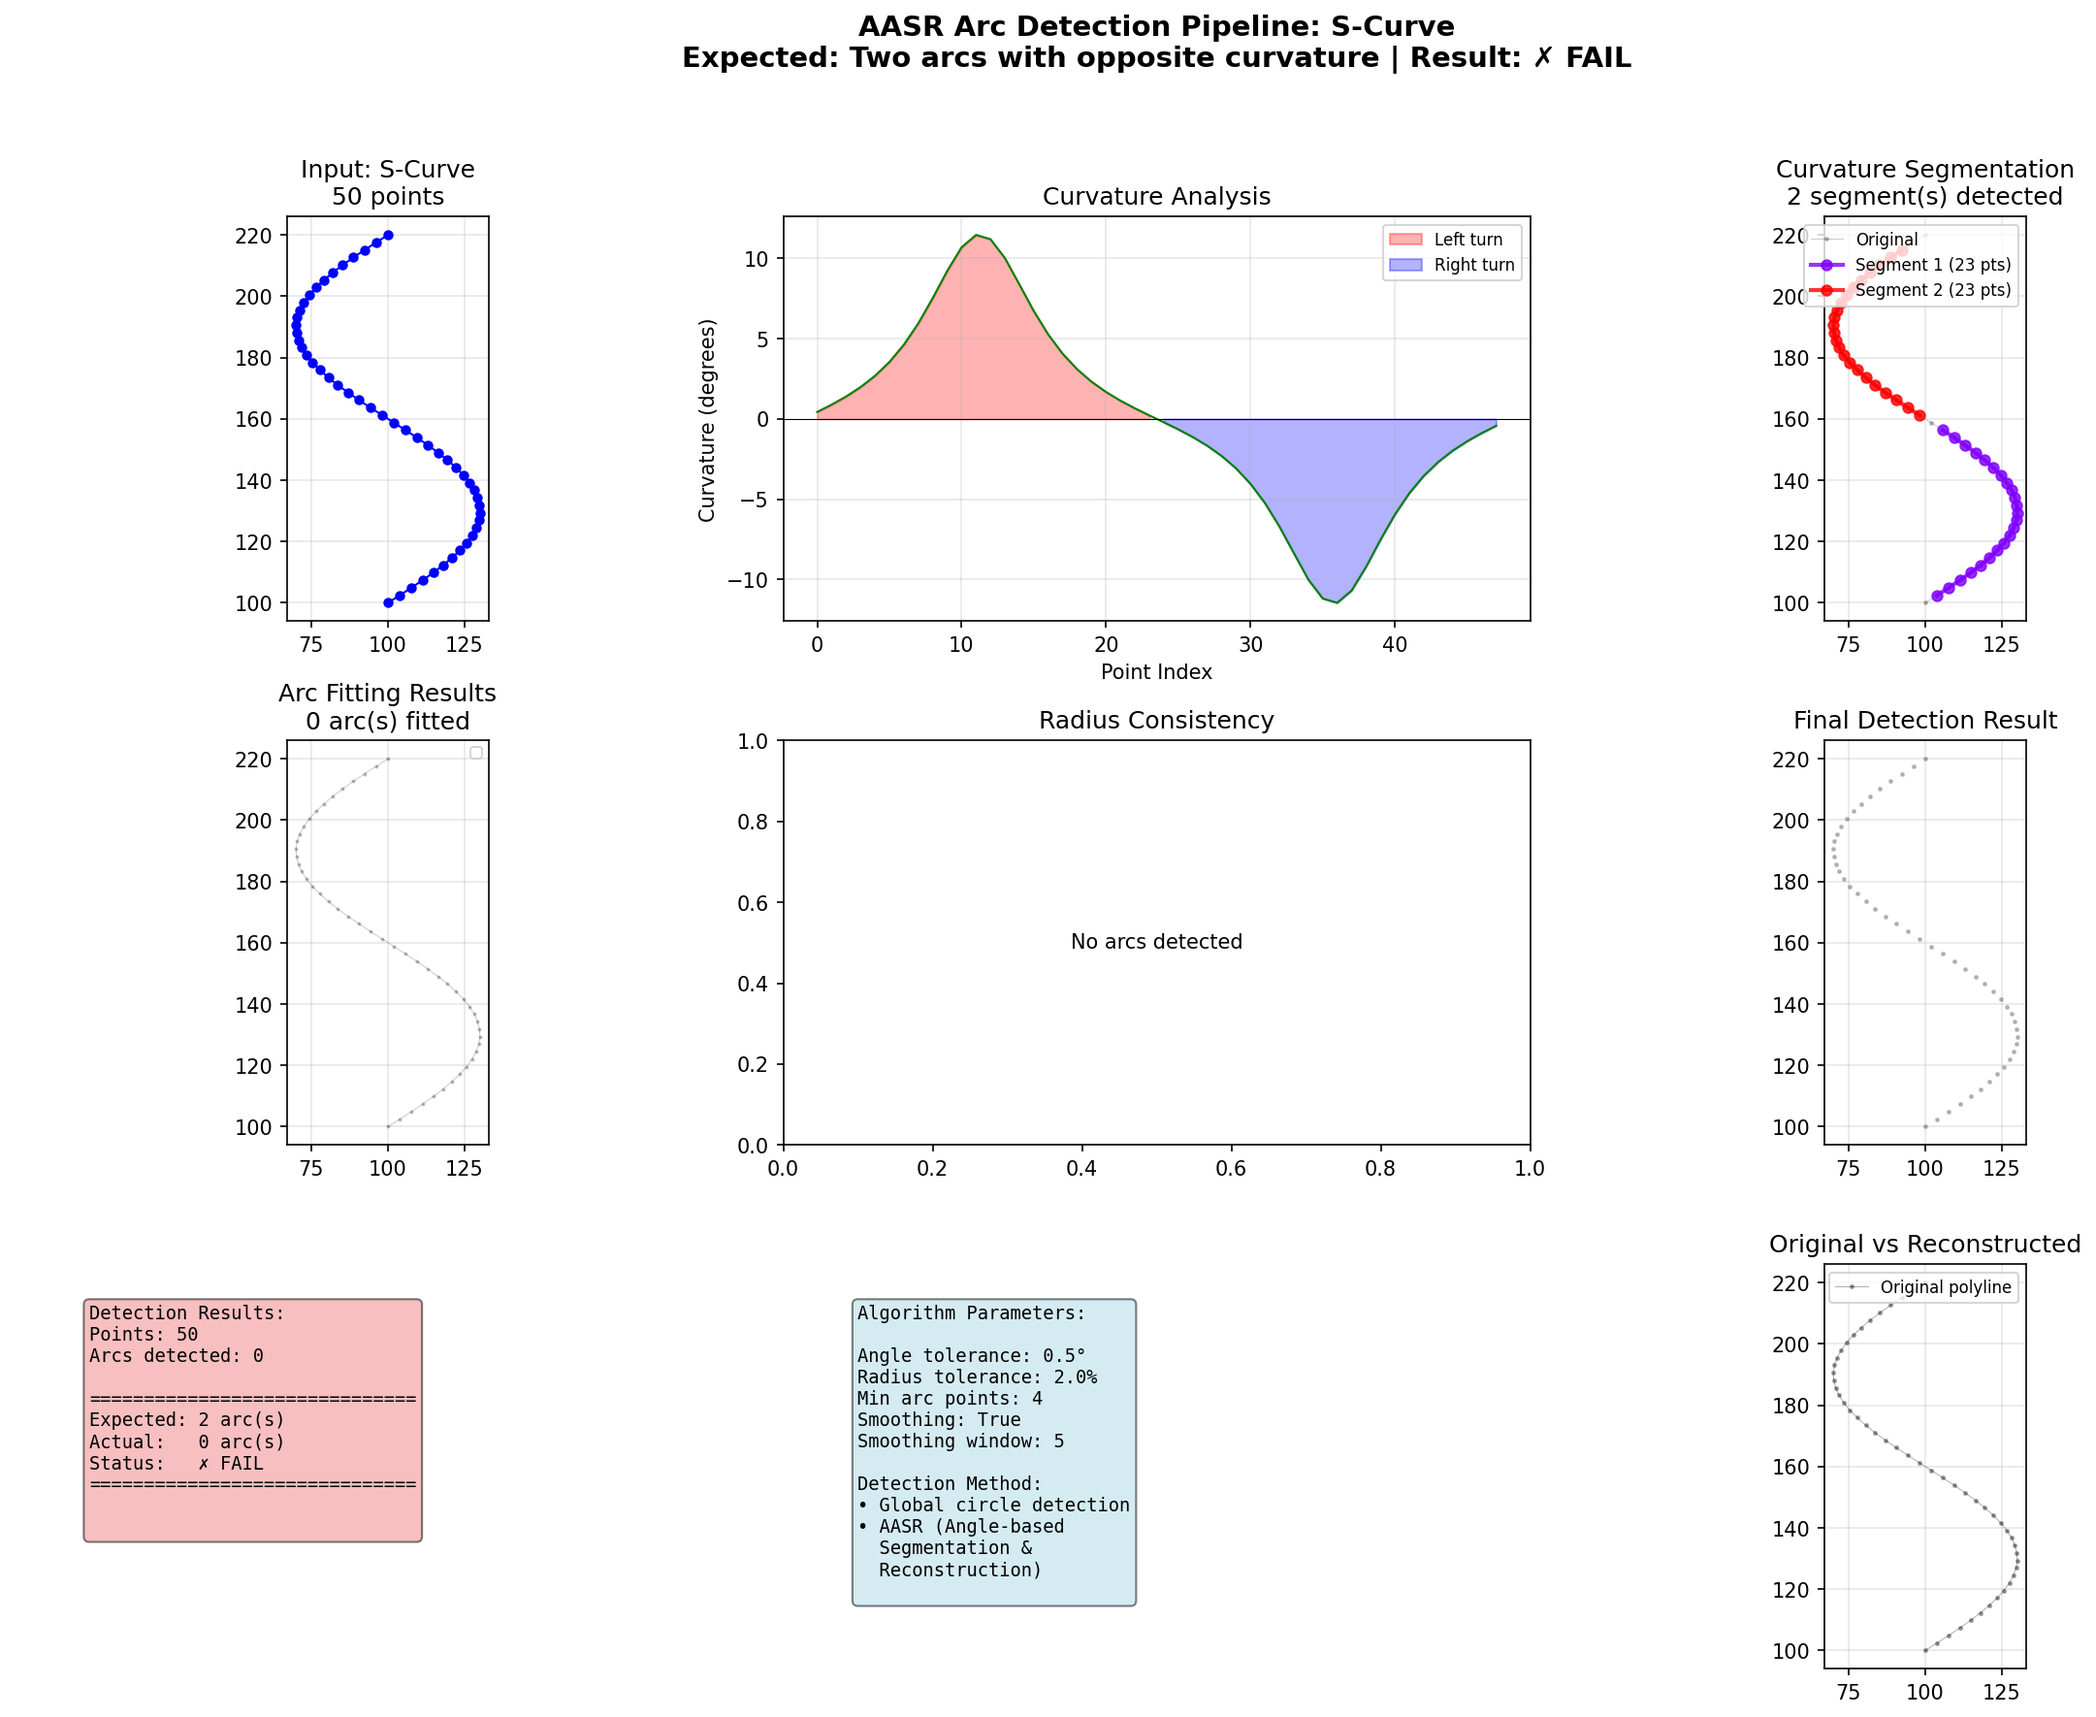
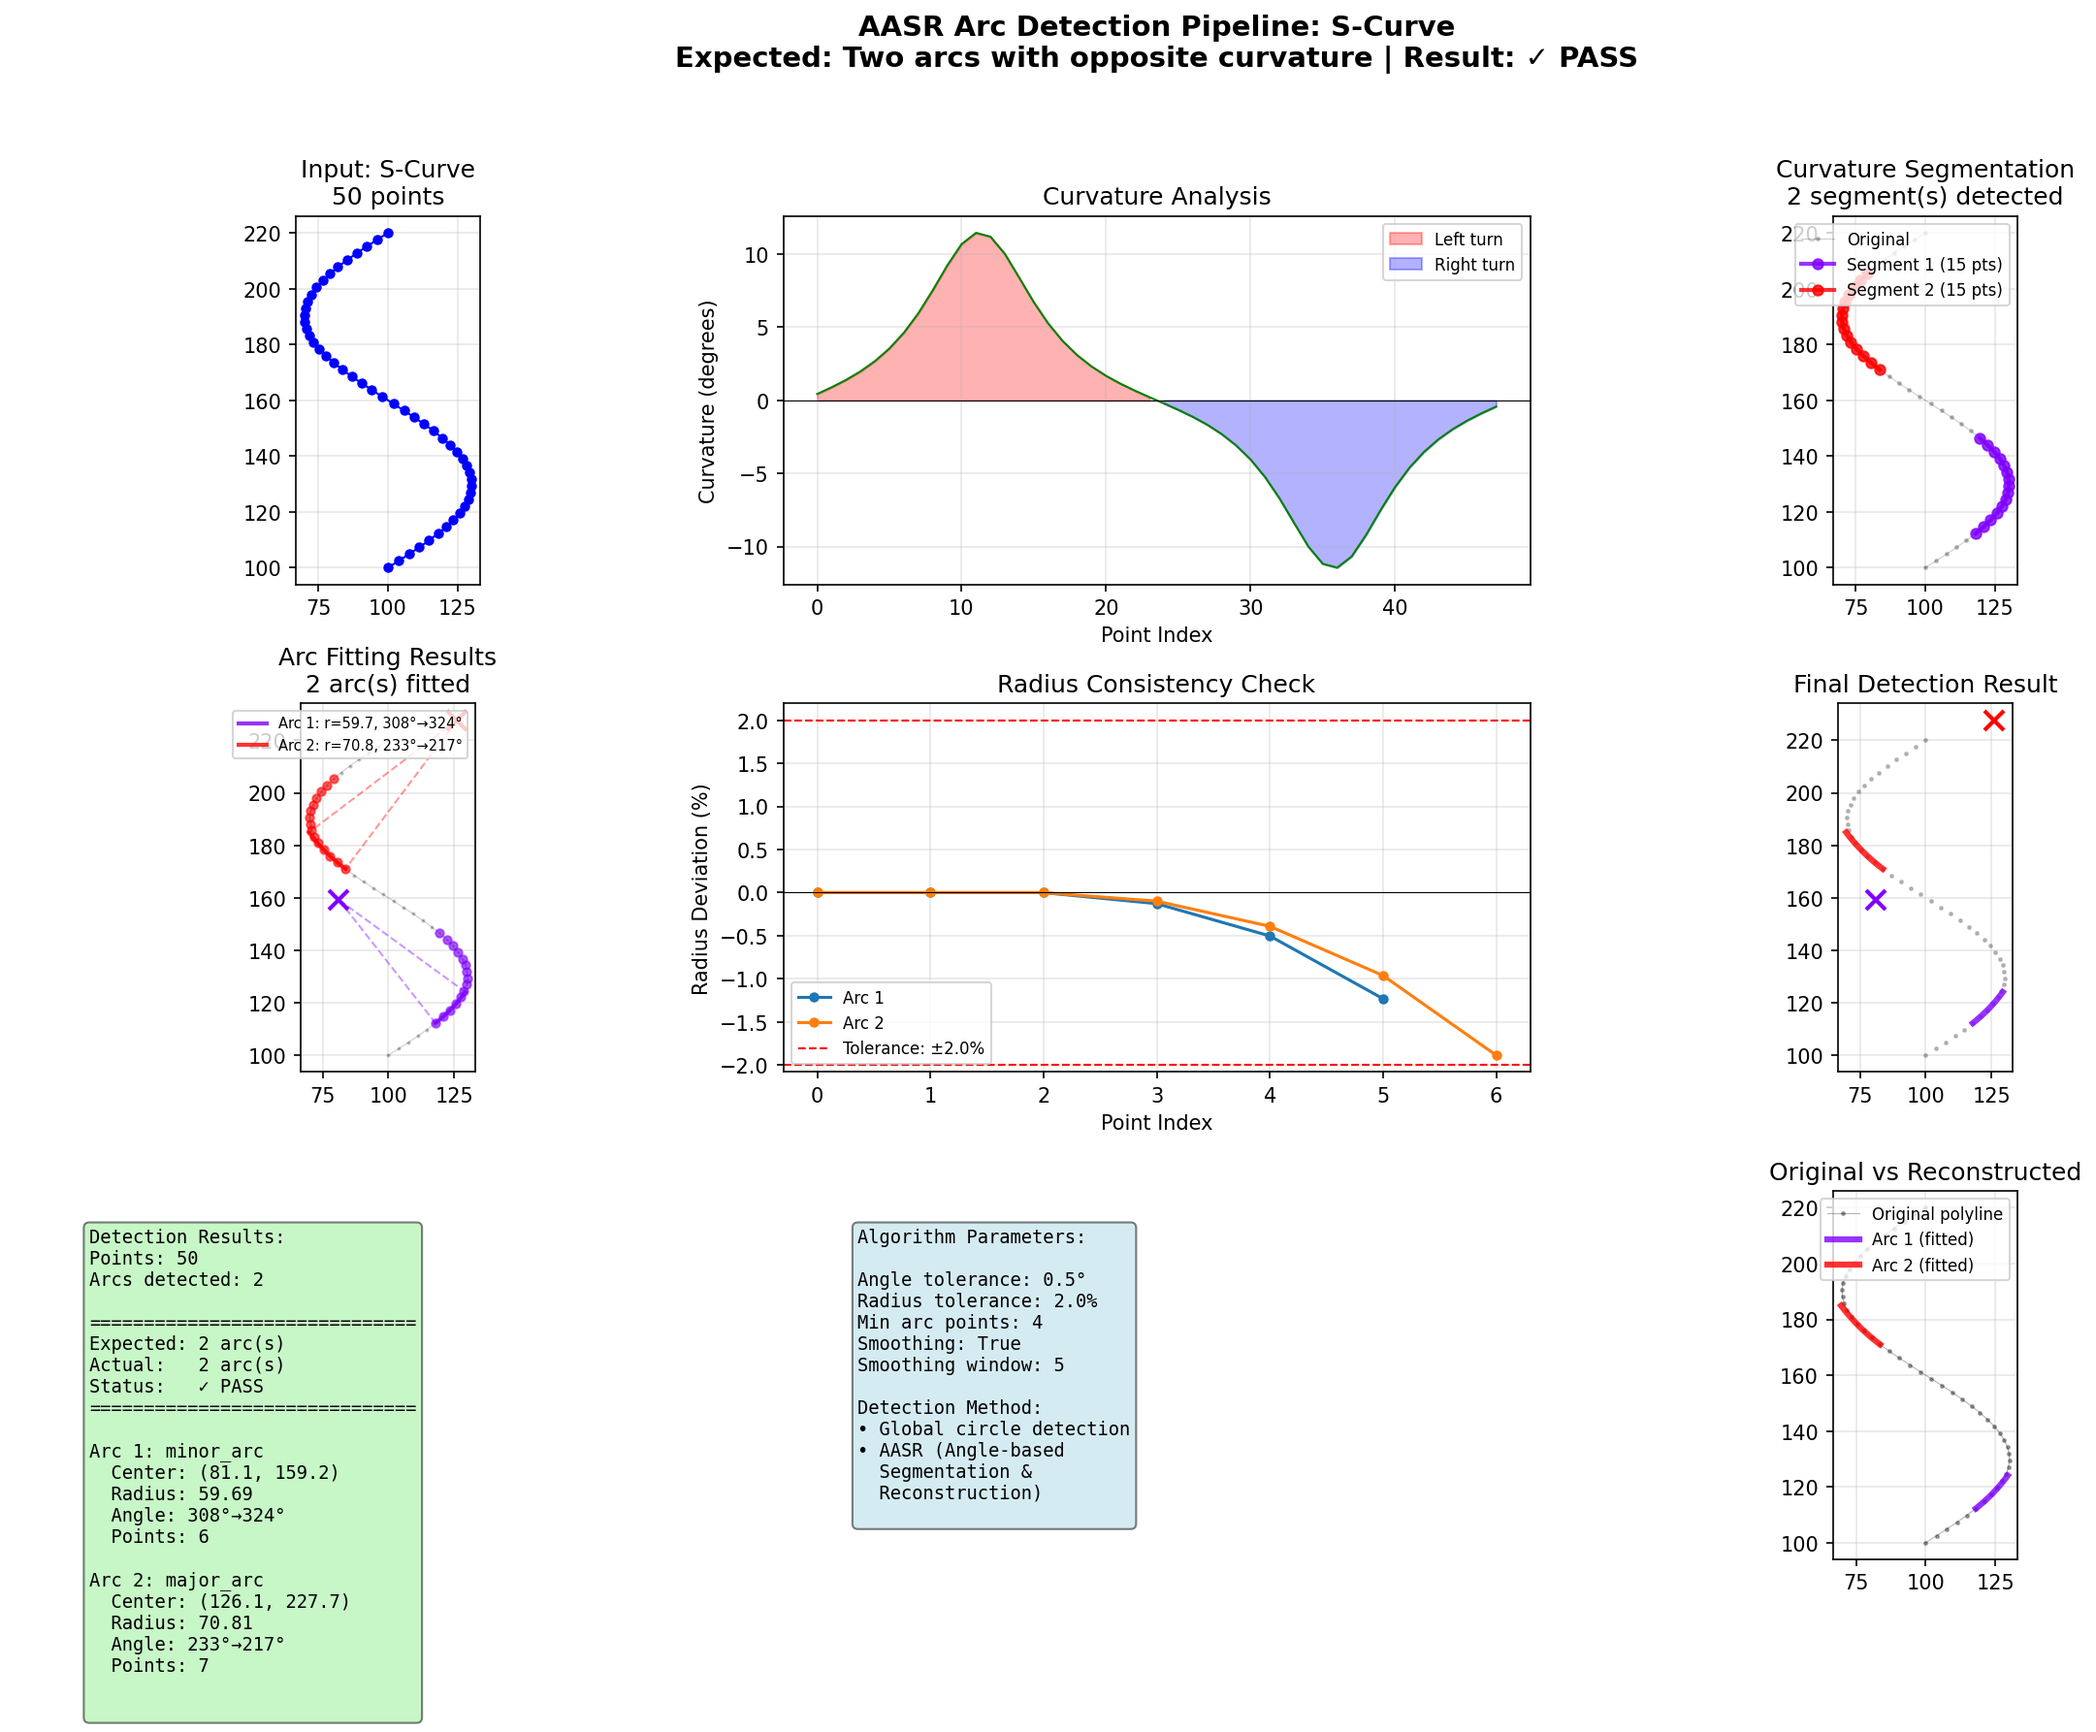
Reflecting recent updates in README and visualizations

diff --git a/README.md b/README.md
@@ -35,6 +35,13 @@ PDF2SVG analyzes line segment sequences and reconstructs them as proper geometri
 - Compatible with downstream SVG-to-DXF converters
 - Minimal dependencies (only PyMuPDF required)
 
+## Recent Updates (last 5 commits)
+
+- Kåsa least-squares fitting is now the primary arc fit with edge-trimming rescue and arc-direction validation; minimum arc span (15° default) and segment curvature threshold (10° default) are configurable to catch smooth arcs without promoting straight lines.
+- Taubin smoothing retuned to λ=0.4 / μ=-0.42 across six alternating passes, finishing on an expand pass to eliminate radius drift while keeping noise removal gentle.
+- Visualization harness adds `visualization_validation.py` for coverage/span/direction metrics plus `--no-show` flags on all Matplotlib scripts for headless runs.
+- Visualization PNGs were regenerated with `--angle-tolerance 0.5` to showcase small-angle behavior; rerun the scripts with that tolerance to refresh.
+
 ## Project Structure
 
 ```
@@ -159,9 +166,9 @@ The converter uses a **hybrid detection approach** combining fast global analysi
 
 2. **Preprocessing - Taubin Smoothing** (if zigzag detected):
    - Detects alternating angle patterns (zigzag threshold: 2.0°)
-   - Applies volume-preserving Taubin smoothing (5 alternating passes)
+   - Applies volume-preserving Taubin smoothing (6 alternating passes)
    - **Advantage**: Removes noise without shrinking radius (eliminates 6%+ distortion from traditional methods)
-   - Uses lambda=0.5 (shrink) and mu=-0.53 (expand) coefficients
+   - Uses lambda=0.4 (shrink) and mu=-0.42 (expand) coefficients (last pass expands to zero out drift)
 
 3. **Global Circle Detection** (Fast Preprocessing):
    - Checks if polyline forms a closed loop (first point ≈ last point)
@@ -171,18 +178,19 @@ The converter uses a **hybrid detection approach** combining fast global analysi
 
 4. **AASR Fallback** (Angle-Based Segmentation & Reconstruction):
    - Applied when global detection fails (partial arcs, complex paths)
-   - **Cumulative angle tracking**: Distinguishes smooth curves from straight lines
+   - **Cumulative angle tracking**: Distinguishes smooth curves from straight lines with configurable minimum segment curvature (default: 10°)
    - Cross product threshold (0.05): Detects curvature presence
    - Segments polyline by curvature direction changes
    - **Interior point sampling** (20%, 50%, 80%): Avoids noisy edge points at segmentation cuts
-   - Requires minimum 15° arc span (geometric span, not incremental changes)
+   - Requires minimum arc span (default 15°, configurable) measured as geometric span, not incremental changes
 
 5. **Kåsa Least Squares Fitting**:
    - **Algebraic circle fitting** using all segment points
    - Builds and solves 2×2 linear system for optimal center/radius
    - **More robust** than 3-point geometric fit (averages out noise)
    - **Fast**: Non-iterative O(n) algorithm
-   - **Fallback**: 3-point geometric fit with interior sampling if least squares fails
+   - **Edge-resilient**: Falls back to trimmed least-squares then 3-point geometric fit if needed
+   - **Direction validation**: Ensures arcs follow the side containing the points (fixes complementary-arc errors on 270° spans)
 
 6. **Edge Trimming Fallback**:
    - If radius consistency check fails (>2% deviation)
@@ -217,9 +225,9 @@ Recent improvements address critical issues identified through comprehensive tes
 **Problem**: Gaussian moving average smoothing caused 6%+ radius shrinkage on circles, degrading geometric accuracy.
 
 **Solution**: Taubin smoothing with alternating shrink/expand passes:
-- λ = 0.5 (shrink coefficient, positive)
-- μ = -0.53 (expand coefficient, negative)
-- 5 alternating passes (vs. 3 Gaussian passes)
+- λ = 0.4 (shrink coefficient, positive)
+- μ = -0.42 (expand coefficient, negative)
+- 6 alternating passes ending on expand (vs. 3 Gaussian passes)
 - **Result**: 0% radius distortion, preserves original geometry
 
 #### **3. Robust Circle Fitting (Enhanced)**
@@ -275,6 +283,14 @@ Recent improvements address critical issues identified through comprehensive tes
 - **Minimum Arc Points**: Minimum segments to consider as arc (default: 4 points)
   - Filters out tiny arc candidates
   - Balance between detail preservation and noise rejection
+
+- **Minimum Arc Span**: Minimum geometric span for an arc (default: 15°)
+  - Prevents classification of near-straight segments as arcs
+  - Lower values catch very tight arcs; higher values are conservative for noisy data
+
+- **Segment Curvature Threshold**: Minimum cumulative curvature before keeping a segment (default: 10°)
+  - Avoids creating arc segments out of minor wiggles
+  - Lower values can improve recall on gentle curves
 
 - **Zigzag Threshold**: Alternating angle magnitude for smoothing activation (default: 2.0°)
   - Prevents false activation on smooth high-resolution circles
@@ -412,16 +428,16 @@ The project includes comprehensive visualization tests demonstrating algorithm c
 
 ```bash
 # Test Taubin smoothing (volume preservation)
-MPLBACKEND=Agg python3 visualize_smoothing.py
+MPLBACKEND=Agg python3 visualize_smoothing.py --angle-tolerance 0.5 --no-show
 
 # Test AASR arc detection (90°, 270°, S-curves, line-arc-line)
-MPLBACKEND=Agg python3 visualize_arc_detection.py
+MPLBACKEND=Agg python3 visualize_arc_detection.py --angle-tolerance 0.5 --no-show
 
 # Test global circle detection (12-200 points, partial arc rejection)
-MPLBACKEND=Agg python3 visualize_circle_detection.py
+MPLBACKEND=Agg python3 visualize_circle_detection.py --angle-tolerance 0.5 --no-show
 
 # Test complete pipeline (hybrid detection, all steps)
-MPLBACKEND=Agg python3 visualize_complete_pipeline.py
+MPLBACKEND=Agg python3 visualize_complete_pipeline.py --angle-tolerance 0.5 --no-show
 ```
 
 Each visualization generates detailed multi-panel figures showing:
@@ -432,6 +448,7 @@ Each visualization generates detailed multi-panel figures showing:
 - Pass/fail validation
 
 **Expected Results**: All tests should pass (100% pass rate) with current improvements.
+When running with a stricter `--angle-tolerance 0.5` (used for the gallery above), coverage assertions become harsher on small-span S-curves and line-arc-line patterns; expect those to flag gaps unless tolerances are relaxed back toward the defaults.
 
 ### Test Arc Detection Algorithm
 
@@ -482,6 +499,8 @@ The `visualization` branch (now merged into main) includes a suite of Matplotlib
 - `visualize_complete_pipeline.py`: Combines smoothing, global detection, AASR fallback, Kåsa fitting, and classification into a twelve-panel dashboard. Run `python visualize_complete_pipeline.py`.
 
 ### Visualization Gallery
+
+Gallery below was regenerated with `--angle-tolerance 0.5` to emphasize small-angle behavior.
 
 | Script | Preview |
 |--------|---------|
@@ -619,6 +638,7 @@ Contributions welcome. Focus areas:
 - **visualize_arc_detection.py**: AASR pipeline walkthrough
 - **visualize_circle_detection.py**: Global detection explanation
 - **visualize_complete_pipeline.py**: Complete algorithm dashboard
+- **visualization_validation.py**: Shared metrics (coverage/span/direction) for headless visualization checks
 
 ### Documentation
 - **README.md**: Complete documentation
@@ -640,6 +660,7 @@ Contributions welcome. Focus areas:
 - **Edge trimming fallback**: Multi-layer fitting robustness
 - **Zigzag threshold tuning**: Selective smoothing activation (2.0°)
 - **Hybrid global + AASR detection**: Fast preprocessing with sophisticated fallback
+- **Arc direction validation**: Prevents selecting complementary arcs on large spans
 - **Test suite**: Comprehensive visualization tests
 
 ## Related Projects
